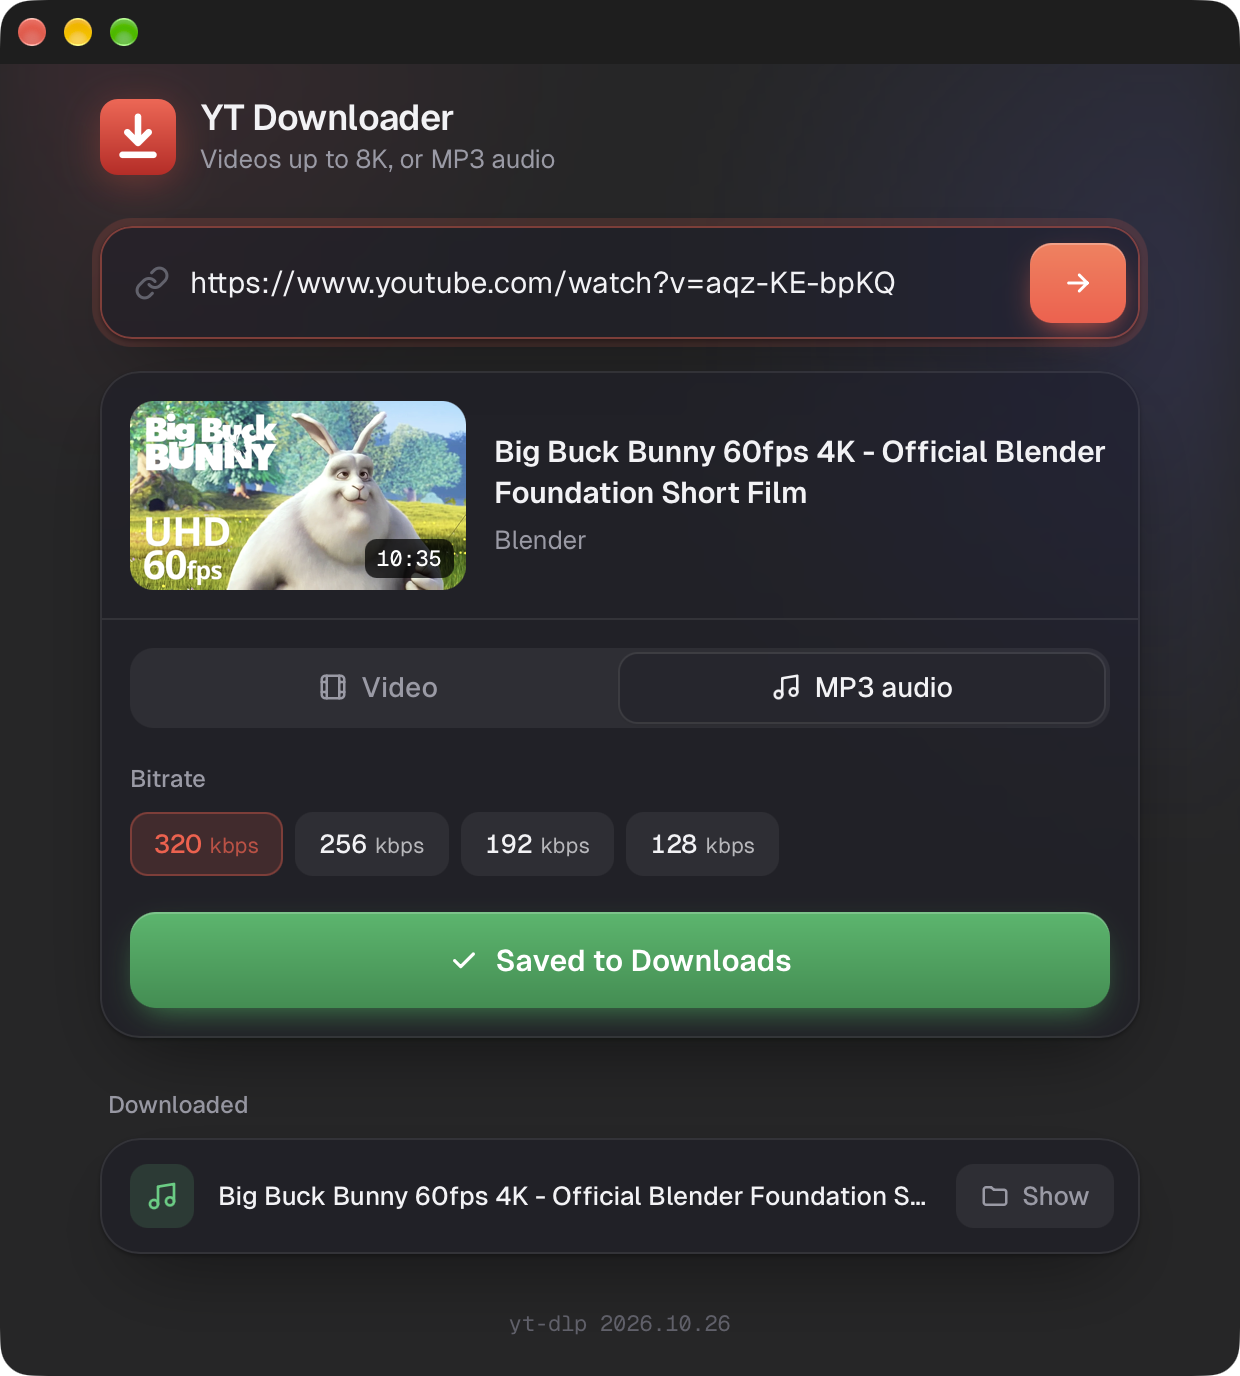
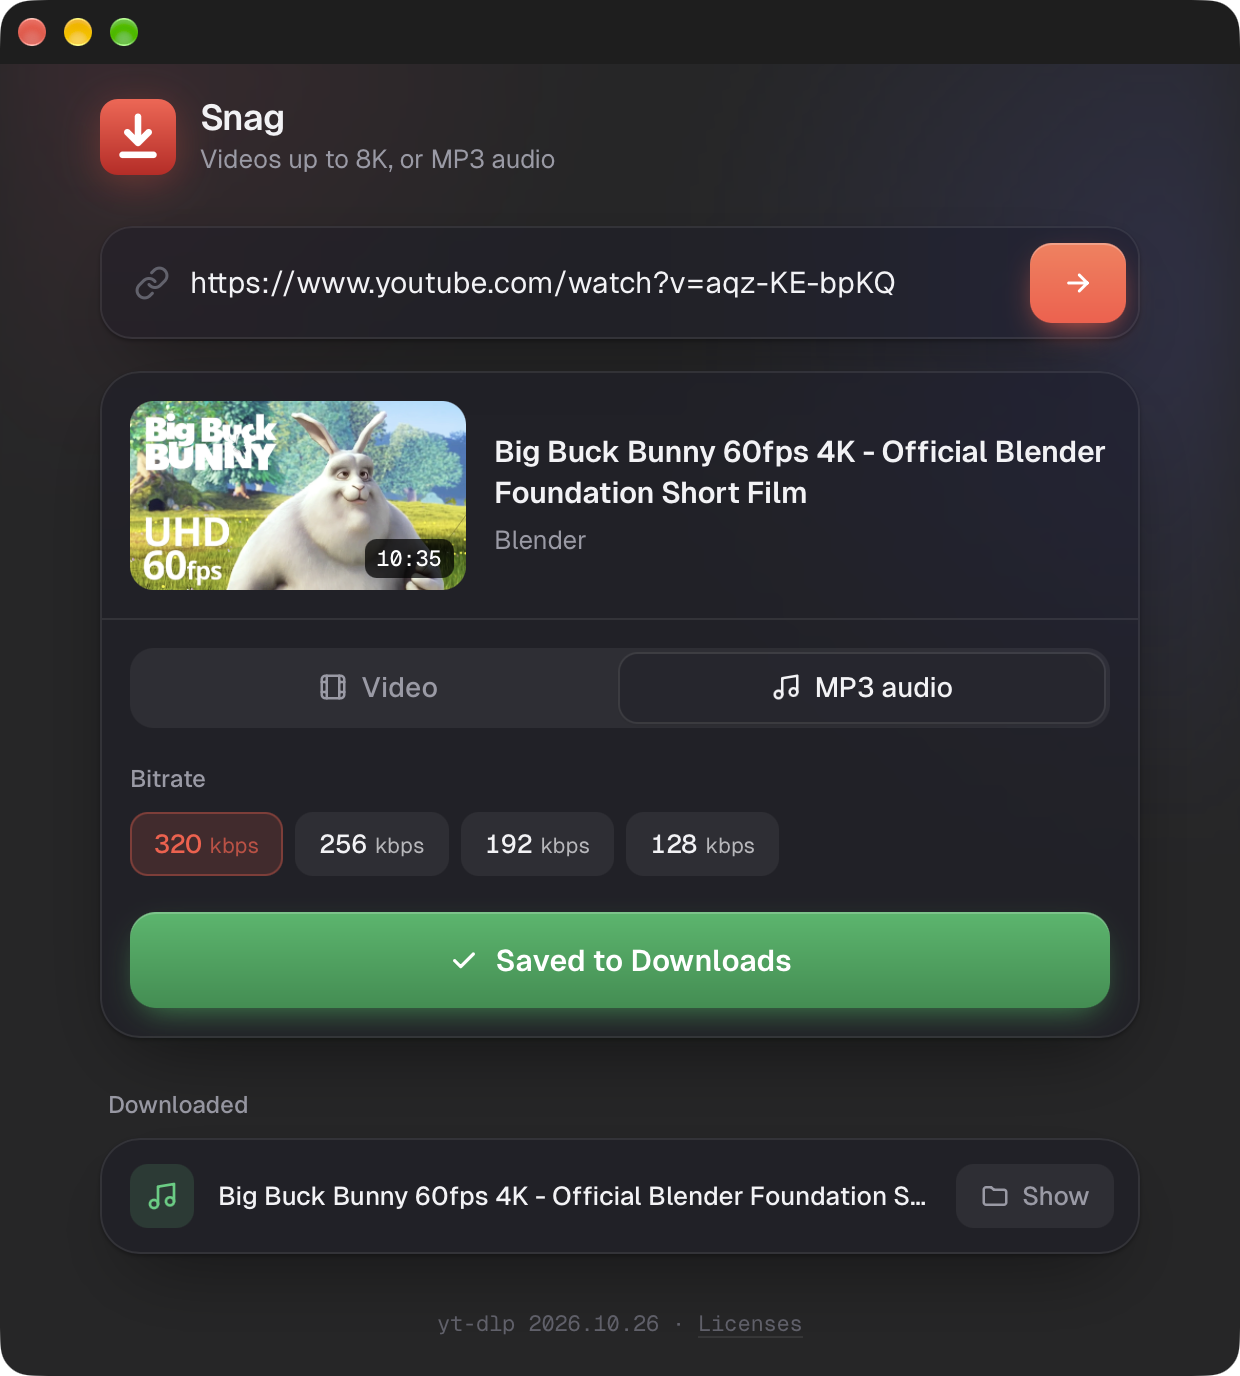
Rename to Snag; add MIT license and third-party notices
- Rename the app from YT Downloader to Snag (avoids YouTube's trademark);
  downloads now go to ~/Downloads/Snag
- MIT LICENSE for Snag's own code
- collect_notices.py writes THIRD-PARTY-NOTICES.txt (bundled in the app,
  shown under Licenses) and gathers the GPL/LGPL sources and build recipes
  that each release publishes
- Leave out mutagen (GPL); ffmpeg already embeds MP3 cover art
- README: new name, license section, non-affiliation note, new images

diff --git a/static/index.html b/static/index.html
@@ -4,7 +4,7 @@
 <meta charset="utf-8">
 <meta name="viewport" content="width=device-width, initial-scale=1">
 <meta name="color-scheme" content="light dark">
-<title>YT Downloader</title>
+<title>Snag</title>
 <style>
   @font-face { font-family: "Geist"; src: url("fonts/Geist-Variable.woff2") format("woff2"); font-weight: 100 900; font-display: swap; }
   @font-face { font-family: "Geist Mono"; src: url("fonts/GeistMono-Variable.woff2") format("woff2"); font-weight: 100 900; font-display: swap; }
@@ -212,6 +212,8 @@
   .recent .kind { color: var(--faint); font-weight: 400; font-size: 12px; }
 
   footer { margin-top: 28px; text-align: center; color: var(--faint); font: 11px "Geist Mono", monospace; }
+  footer a { color: inherit; text-decoration: none; border-bottom: 1px solid var(--hairline); }
+  footer a:hover { color: var(--muted); }
 
   .hidden { display: none !important; }
 
@@ -246,7 +248,7 @@
       <path d="M32 15v20M23 28l9 9 9-9M19 47h26" fill="none" stroke="#fff" stroke-width="5.5" stroke-linecap="round" stroke-linejoin="round"/>
     </svg>
     <div>
-      <h1>YT Downloader</h1>
+      <h1>Snag</h1>
       <p>Videos up to 8K, or MP3 audio</p>
     </div>
     <div class="spacer"></div>
@@ -311,7 +313,7 @@
     <ul class="glass" id="recentList"></ul>
   </section>
 
-  <footer id="version"></footer>
+  <footer><span id="version"></span> · <a id="licensesLink" href="/licenses">Licenses</a></footer>
 </main>
 
 <script>
@@ -490,13 +492,14 @@ function addRecent(job, filename, mode) {
 
 $("quitBtn")?.addEventListener("click", async () => {
   await fetch("/api/quit", { method: "POST" }).catch(() => {});
-  document.querySelector("main").innerHTML = `<header><div><h1>YT Downloader stopped</h1><p>Open it again whenever you need it. You can close this tab.</p></div></header>`;
+  document.querySelector("main").innerHTML = `<header><div><h1>Snag stopped</h1><p>Open it again whenever you need it. You can close this tab.</p></div></header>`;
 });
 
 chips($("formatChips"), FORMATS.map(([v, l]) => [v, l]), "container");
 chips($("bitrateChips"), BITRATES, "bitrate");
 updateFormatHint();
 fetch("/api/version").then(r => r.json()).then(v => $("version").textContent = `yt-dlp ${v.ytdlp}`).catch(() => {});
+if (isApp) $("licensesLink").href = "/licenses?app=1";
 </script>
 </body>
 </html>

diff --git a/assets/collect_notices.py b/assets/collect_notices.py
@@ -1,0 +1,173 @@
+"""Writes THIRD-PARTY-NOTICES.txt for the packaged app, and gathers the GPL/LGPL sources each release must publish.
+
+usage: collect_notices.py TOOLS_DIR OUT_DIR
+TOOLS_DIR is the bundled ffmpeg/QuickJS folder from build-dmg.sh (binaries + libs/).
+Writes OUT_DIR/THIRD-PARTY-NOTICES.txt and OUT_DIR/third-party-sources/ (source tarballs + build recipes).
+Run with the build venv's Python so the bundled Python packages are the ones listed.
+"""
+import importlib.metadata as md
+import json
+import re
+import shutil
+import subprocess
+import sys
+import sysconfig
+from pathlib import Path
+
+from packaging.markers import default_environment
+from packaging.requirements import Requirement
+
+tools, out = Path(sys.argv[1]), Path(sys.argv[2])
+root = Path(__file__).resolve().parent.parent
+CELLAR = Path(subprocess.run(["brew", "--cellar"], capture_output=True, text=True, check=True).stdout.strip())
+LICENSE_FILE = re.compile(r"^(licen[cs]e|copying|copyright|notice|ofl)[^/]*$", re.I)
+COPYLEFT = re.compile(r"\b(L?GPL)", re.I)
+# Packages left out of the app on purpose (mutagen is GPL and Snag doesn't need it).
+EXCLUDED = {"mutagen"}
+
+
+def sh(*cmd):
+    return subprocess.run(cmd, capture_output=True, text=True, check=True).stdout
+
+
+def native_components():
+    """Homebrew formulas behind every binary and library bundled in TOOLS_DIR."""
+    names = [p.name for p in tools.iterdir() if p.is_file()] + [p.name for p in (tools / "libs").iterdir()]
+    formulas = {}
+    for name in names:
+        hit = next((p for p in CELLAR.glob(f"*/*/{'bin' if '.dylib' not in name else 'lib'}/{name}")), None)
+        if hit:
+            formula, version = hit.relative_to(CELLAR).parts[:2]
+            formulas[formula] = version
+    info = {f["name"]: f for f in json.loads(sh("brew", "info", "--json=v2", *formulas))["formulae"]}
+    comps = []
+    for formula, version in sorted(formulas.items()):
+        meta = info[formula]
+        keg = CELLAR / formula / version
+        texts = [p for p in sorted(keg.rglob("*")) if p.is_file() and LICENSE_FILE.match(p.name)]
+        license_ = meta.get("license") or "see below"
+        if formula == "ffmpeg":  # Homebrew lists the base license; this build enables GPL v3 components
+            license_ = "GPL-3.0-or-later (configured with --enable-gpl --enable-version3)"
+        comps.append({
+            "name": formula, "version": version, "license": license_,
+            "url": meta.get("homepage"), "source": meta["urls"]["stable"]["url"],
+            "texts": [(p.name, p.read_text(errors="replace")) for p in texts],
+        })
+    return comps
+
+
+def project_url(meta):
+    """Prefer a package's homepage or source repo over changelog/donate/chat links."""
+    urls = [u.split(", ", 1) for u in meta.get_all("Project-URL") or [] if ", " in u]
+    for want in ("homepage", "source", "source code", "repository", "documentation"):
+        for label, url in urls:
+            if label.strip().lower() == want:
+                return url
+    return urls[0][1] if urls else None
+
+
+def python_components():
+    """Python itself plus every package reachable from requirements.txt and pywebview."""
+    env = default_environment()
+    roots = [Requirement(line) for line in (root / "requirements.txt").read_text().split() if line]
+    queue = [(r.name, set(r.extras)) for r in roots] + [("pywebview", set())]
+    seen = {}
+    while queue:
+        name, extras = queue.pop()
+        name = name.lower().replace("_", "-")
+        if name in EXCLUDED:
+            continue
+        try:
+            dist = md.distribution(name)
+        except md.PackageNotFoundError:
+            continue  # optional dependency that isn't installed, so it isn't bundled either
+        seen[name] = dist
+        for req in dist.requires or []:
+            r = Requirement(req)
+            if r.name.lower() not in seen and (
+                    r.marker is None or any(r.marker.evaluate({**env, "extra": e}) for e in extras | {""})):
+                queue.append((r.name, set(r.extras)))
+
+    comps = [{
+        "name": "Python", "version": sys.version.split()[0], "license": "PSF-2.0",
+        "url": "https://www.python.org", "source": None,
+        "texts": [("LICENSE.txt", (Path(sysconfig.get_paths()["stdlib"]) / "LICENSE.txt").read_text())],
+    }]
+    for name, dist in sorted(seen.items()):
+        meta = dist.metadata
+        texts = [(f.name, Path(f.locate()).read_text(errors="replace"))
+                 for f in (dist.files or []) if LICENSE_FILE.match(f.name)]
+        license_ = meta.get("License-Expression") or next(iter((meta.get("License") or "").splitlines()), "")[:60]
+        if not license_:  # older packages only declare it as a trove classifier
+            license_ = next((c.split(" :: ")[-1] for c in meta.get_all("Classifier") or [] if c.startswith("License ::")), "see below")
+        comps.append({
+            "name": meta["Name"], "version": dist.version,
+            "license": license_,
+            "url": meta.get("Home-page") or project_url(meta),
+            "source": None, "texts": texts,
+        })
+    return comps
+
+
+def font_components():
+    return [{"name": "Geist (font)", "version": "1.3.1", "license": "OFL-1.1", "url": "https://vercel.com/font",
+             "source": None, "texts": [("OFL.txt", (root / "static" / "fonts" / "OFL.txt").read_text())]}]
+
+
+def gather_sources(comps, dest):
+    """Fetch the exact upstream source + Homebrew build recipe for every GPL/LGPL native component."""
+    dest.mkdir(parents=True, exist_ok=True)
+    for c in comps:
+        if not COPYLEFT.search(c["license"]):
+            continue
+        subprocess.run(["brew", "fetch", "--quiet", "--build-from-source", c["name"]], check=True, capture_output=True)
+        cached = Path(sh("brew", "--cache", "--build-from-source", c["name"]).strip())
+        if cached.is_dir():  # formulas built from a git checkout (e.g. x264)
+            shutil.make_archive(str(dest / f"{c['name']}-{c['version']}"), "gztar", cached.parent, cached.name)
+        else:
+            shutil.copy(cached, dest / cached.name.split("--", 1)[-1])
+        (dest / f"{c['name']}.rb").write_text(sh("brew", "cat", c["name"]))
+    (dest / "ffmpeg-configuration.txt").write_text(sh(str(tools / "ffmpeg"), "-hide_banner", "-buildconf"))
+    (dest / "README.txt").write_text(
+        "Corresponding source for the GPL/LGPL components bundled in Snag.\n\n"
+        "Each tarball is the unmodified upstream source. The .rb files are the Homebrew build recipes\n"
+        "(configure flags and patches) used to build them; ffmpeg-configuration.txt is FFmpeg's own\n"
+        "record of how it was configured. The binaries were then copied into the app with dylibbundler,\n"
+        "which only rewrites library load paths.\n")
+
+
+native = native_components()
+comps = native + python_components() + font_components()
+out.mkdir(parents=True, exist_ok=True)
+
+lines = [
+    "SNAG — THIRD-PARTY NOTICES",
+    "=" * 26,
+    "",
+    "Snag's own code is MIT-licensed (see LICENSE). The app bundles the open-source software listed",
+    "below, each under its own license. Full license texts follow the list.",
+    "",
+    "FFmpeg in this app is licensed under the GPL-3.0-or-later and includes GPL (x264, x265) and LGPL",
+    "(LAME, mpg123) components. FFmpeg and QuickJS run as separate programs; Snag does not link to them.",
+    "The complete corresponding source code for every GPL/LGPL component, with the exact build recipes,",
+    "is published with each release as snag-third-party-sources.tar.gz:",
+    "  https://github.com/kinshuk8/yt-downloader/releases",
+    "",
+    "The app is packaged with PyInstaller, whose bootloader is GPL-2.0 with an exception that permits",
+    "this use.",
+    "",
+    "-" * 72,
+]
+for c in comps:
+    lines.append(f"{c['name']} {c['version']}  —  {c['license']}" + (f"  —  {c['url']}" if c["url"] else ""))
+lines += ["-" * 72, ""]
+for c in comps:
+    if not c["texts"]:
+        continue
+    lines += ["", "=" * 72, f"{c['name']} {c['version']}", "=" * 72]
+    for fname, text in c["texts"]:
+        lines += [f"--- {fname} ---", text.strip(), ""]
+(out / "THIRD-PARTY-NOTICES.txt").write_text("\n".join(lines) + "\n")
+
+gather_sources(native, out / "third-party-sources")
+print(f"{len(comps)} components; notices and sources in {out}")

diff --git a/app.py b/app.py
@@ -1,4 +1,5 @@
-"""Local YouTube downloader: Flask backend wrapping yt-dlp + ffmpeg."""
+"""Snag: local video downloader. Flask backend wrapping yt-dlp + ffmpeg."""
+import html
 import os
 import subprocess
 import sys
@@ -9,7 +10,7 @@ from pathlib import Path
 import yt_dlp
 from flask import Flask, jsonify, request, send_file, send_from_directory
 
-DOWNLOAD_DIR = Path.home() / "Downloads" / "YouTube"
+DOWNLOAD_DIR = Path.home() / "Downloads" / "Snag"
 DOWNLOAD_DIR.mkdir(parents=True, exist_ok=True)
 
 # Inside the packaged .app, bundled files live next to the executable / in sys._MEIPASS.
@@ -24,6 +25,28 @@ jobs = {}  # job_id -> dict(status, percent, speed, eta, filepath, error, title)
 @app.get("/")
 def index():
     return send_from_directory(app.static_folder, "index.html")
+
+
+@app.get("/licenses")
+def licenses():
+    """Snag's license plus the bundled third-party notices (generated by the build)."""
+    parts = [p.read_text() for p in (BASE / "LICENSE", BASE / "THIRD-PARTY-NOTICES.txt") if p.exists()]
+    if len(parts) < 2:
+        parts.append("Third-party notices are generated when the app is built (see build-dmg.sh).")
+    back = "/?app=1" if request.args.get("app") else "/"
+    return f"""<!doctype html><meta charset="utf-8"><meta name="color-scheme" content="light dark">
+<title>Licenses</title>
+<style>
+  @font-face {{ font-family: "Geist"; src: url("fonts/Geist-Variable.woff2"); }}
+  @font-face {{ font-family: "Geist Mono"; src: url("fonts/GeistMono-Variable.woff2"); }}
+  body {{ margin: 0; font: 14px/1.5 "Geist", system-ui, sans-serif; background: Canvas; color: CanvasText; }}
+  header {{ position: sticky; top: 0; padding: 40px 24px 14px; background: Canvas; border-bottom: 1px solid color-mix(in srgb, CanvasText 12%, transparent); }}
+  a {{ color: #f0453a; text-decoration: none; font-weight: 500; }}
+  h1 {{ margin: 6px 0 0; font-size: 18px; }}
+  pre {{ margin: 0; padding: 20px 24px 40px; font: 11.5px/1.55 "Geist Mono", monospace; white-space: pre-wrap; }}
+</style>
+<header><a href="{back}">← Back</a><h1>Open-source licenses</h1></header>
+<pre>{html.escape(chr(10).join(parts))}</pre>"""
 
 
 @app.get("/api/version")

diff --git a/updater.py b/updater.py
@@ -10,7 +10,7 @@ import threading
 import urllib.request
 from pathlib import Path
 
-CACHE = Path.home() / "Library" / "Application Support" / "YT Downloader"
+CACHE = Path.home() / "Library" / "Application Support" / "Snag"
 ZIP = CACHE / "yt-dlp.zip"
 RELEASE_API = "https://api.github.com/repos/yt-dlp/yt-dlp/releases/latest"
 
@@ -27,7 +27,7 @@ def check_in_background():
 
 
 def _get(url):
-    req = urllib.request.Request(url, headers={"User-Agent": "yt-downloader"})
+    req = urllib.request.Request(url, headers={"User-Agent": "snag"})
     with urllib.request.urlopen(req, timeout=30) as r:
         return r.read()
 

diff --git a/assets/make_dmg_background.py b/assets/make_dmg_background.py
@@ -38,7 +38,7 @@ def render(scale, fonts):
     # Heading.
     title = ImageFont.truetype(str(fonts / "Geist-SemiBold.ttf"), s(22))
     sub = ImageFont.truetype(str(fonts / "Geist-Regular.ttf"), s(13))
-    d.text((s(W / 2), s(52)), "YT Downloader", font=title, fill=(23, 23, 28), anchor="mm")
+    d.text((s(W / 2), s(52)), "Snag", font=title, fill=(23, 23, 28), anchor="mm")
     d.text((s(W / 2), s(80)), "Drag the app into Applications to install", font=sub, fill=(105, 105, 118), anchor="mm")
 
     # Arrow between the icons: dotted track and a chevron in the accent colour.

diff --git a/assets/screenshots.py b/assets/screenshots.py
@@ -87,7 +87,7 @@ def steps(window):
 
 server = make_server("127.0.0.1", 0, app, threaded=True)
 threading.Thread(target=server.serve_forever, daemon=True).start()
-window = webview.create_window("YT Downloader", f"http://127.0.0.1:{server.server_port}/?app=1",
+window = webview.create_window("Snag", f"http://127.0.0.1:{server.server_port}/?app=1",
                                width=620, height=720, vibrancy=True, transparent=True)
 window.events.shown += lambda: unify_titlebar(window)
 webview.start(run, window)

diff --git a/desktop.py b/desktop.py
@@ -35,7 +35,7 @@ def main():
     updater.check_in_background()
 
     window = webview.create_window(
-        "YT Downloader",
+        "Snag",
         f"http://127.0.0.1:{server.server_port}/?app=1",
         width=620,
         height=760,

diff --git a/README.md b/README.md
@@ -1,8 +1,8 @@
 <p align="center">
-  <img src="docs/icon.png" width="112" alt="YT Downloader icon">
+  <img src="docs/icon.png" width="112" alt="Snag icon">
 </p>
 
-<h1 align="center">YT Downloader</h1>
+<h1 align="center">Snag</h1>
 
 <p align="center">
   <b>Save YouTube videos in up to 8K, or as MP3, with one paste.</b><br>
@@ -10,7 +10,7 @@
 </p>
 
 <p align="center">
-  <a href="https://github.com/kinshuk8/yt-downloader/releases/latest/download/YT-Downloader.dmg">
+  <a href="https://github.com/kinshuk8/yt-downloader/releases/latest/download/Snag.dmg">
     <img src="docs/download.png" width="300" alt="Download for Mac">
   </a>
 </p>
@@ -22,7 +22,7 @@
 <br>
 
 <p align="center">
-  <img src="docs/hero.png" alt="YT Downloader in light and dark mode">
+  <img src="docs/hero.png" alt="Snag in light and dark mode">
 </p>
 
 <br>
@@ -83,15 +83,15 @@
 ## Install in 10 seconds
 
 <p align="center">
-  <img src="docs/installer.png" width="620" alt="Drag YT Downloader into Applications">
+  <img src="docs/installer.png" width="620" alt="Drag Snag into Applications">
 </p>
 
-1. **[Download the DMG](https://github.com/kinshuk8/yt-downloader/releases/latest/download/YT-Downloader.dmg)** and open it.
-2. Drag **YT Downloader** into **Applications**.
+1. **[Download the DMG](https://github.com/kinshuk8/yt-downloader/releases/latest/download/Snag.dmg)** and open it.
+2. Drag **Snag** into **Applications**.
 3. The first time only: **right-click** the app → **Open** → **Open**.<br>
    <sub>The app isn't notarized by Apple, so macOS asks once. You can also allow it in System Settings → Privacy &amp; Security.</sub>
 
-Downloads are saved to **`~/Downloads/YouTube`**. Click **Show** next to any download to see it in Finder.
+Downloads are saved to **`~/Downloads/Snag`**. Click **Show** next to any download to see it in Finder.
 
 <br>
 
@@ -135,7 +135,7 @@ cd yt-downloader
 ./build-dmg.sh
 ```
 
-Needs [Homebrew](https://brew.sh); the script installs anything missing and writes `dist/YT-Downloader.dmg` in about 30 seconds. Build files go to `~/.cache/yt-downloader-build`.
+Needs [Homebrew](https://brew.sh); the script installs anything missing and writes `dist/Snag.dmg`, plus the notices and third-party sources to attach to the release, in about a minute. Build files go to `~/.cache/snag-build`.
 
 The app is a Flask backend (`app.py`) shown in a native [pywebview](https://pywebview.flowrl.com) window (`desktop.py`). PyInstaller packages it with ffmpeg and QuickJS, which yt-dlp needs to solve YouTube's JavaScript challenge. `updater.py` keeps yt-dlp current inside the packaged app.
 </details>
@@ -156,7 +156,7 @@ Or double-click `start.command`. The first run installs ffmpeg and the Python pa
 <br>
 
 ```bash
-B=~/.cache/yt-downloader-build
+B=~/.cache/snag-build
 $B/venv/bin/python assets/screenshots.py $B/shots light
 $B/venv/bin/python assets/screenshots.py $B/shots dark
 $B/venv/bin/python assets/make_readme_art.py $B/shots $B/fonts
@@ -171,6 +171,15 @@ The screenshots use [Big Buck Bunny](https://peach.blender.org) (CC BY, Blender 
 
 [yt-dlp](https://github.com/yt-dlp/yt-dlp) · [FFmpeg](https://ffmpeg.org) · [QuickJS](https://bellard.org/quickjs/) · [pywebview](https://pywebview.flowrl.com) · [Flask](https://flask.palletsprojects.com) · [Geist](https://vercel.com/font) (SIL Open Font License)
 
+## License
+
+Snag's own code is [MIT-licensed](LICENSE). The app bundles open-source software under its own licenses, including FFmpeg (GPL-3.0-or-later). Every release includes:
+
+- **THIRD-PARTY-NOTICES.txt**, listing every bundled component with its full license text. It's also inside the app (**Licenses** at the bottom of the window).
+- **snag-third-party-sources.tar.gz**, the exact source code and build recipes for the GPL/LGPL components (FFmpeg, x264, x265, LAME, mpg123).
+
 ## Please download responsibly
 
 Only download videos you have the right to, such as your own uploads or Creative Commons content. YouTube's terms don't allow downloading most videos.
+
+<sub>Snag is an independent project. It is not affiliated with, endorsed by, or sponsored by YouTube or Google. YouTube is a trademark of Google LLC.</sub>
